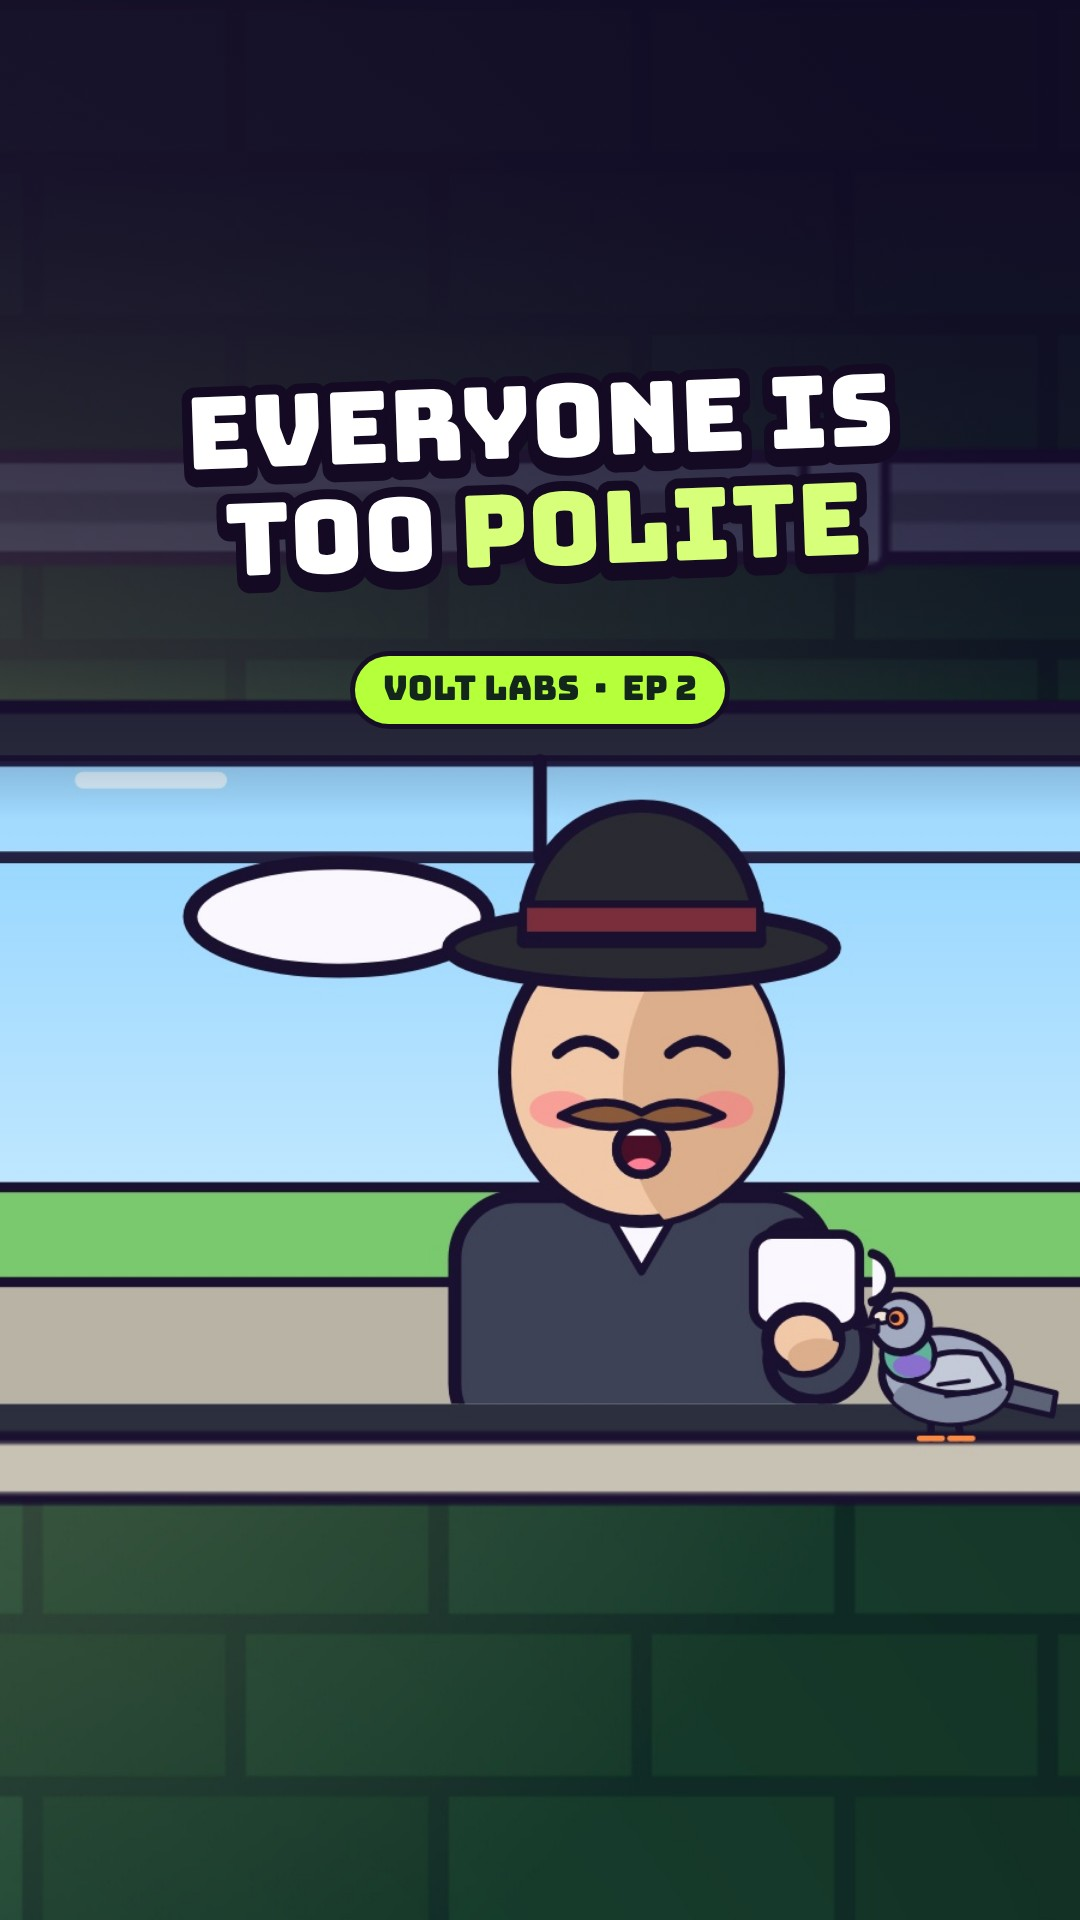
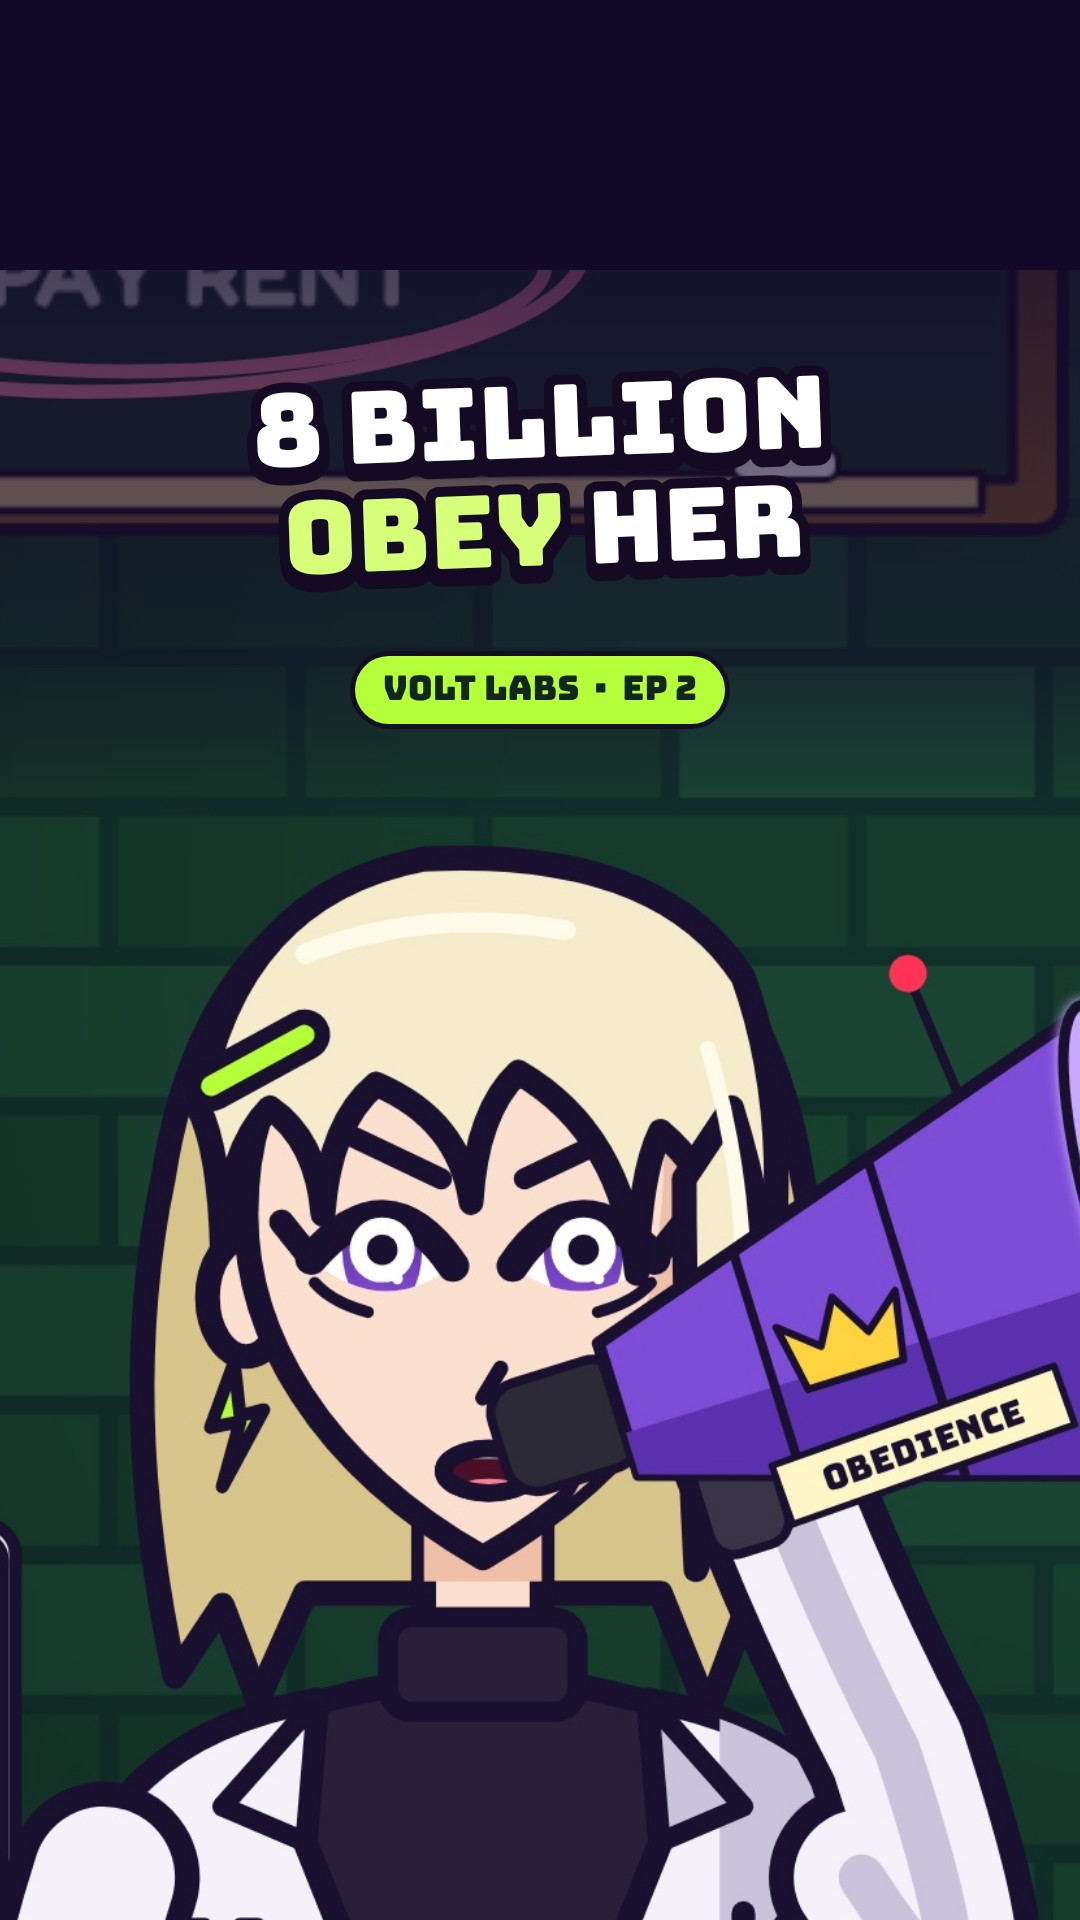
Covers: the main cast big, the strongest emotion frame, a question in 2-4 words (owner 11/10); redo VL2, VM3, VL4, VM6, VL6
Claude-Session: https://claude.ai/code/session_01LkDBK4iy6rfiAGrGtNUTyR

diff --git a/channel/PRODUCTION.md b/channel/PRODUCTION.md
@@ -112,6 +112,7 @@ Read the style text only (`curl -sS https://raw.githubusercontent.com/lemomo-ai/
    - youtubeData: title ≤ 100 chars ending `| Void Mart Ep N #shorts` (or `| Volt Labs Ep N #shorts`), type `short`, privacy `public`, tags, category `FILM_ANIMATION`, madeForKids false, isAiGeneratedContent false
    - instagramData: type `REEL`, showReelOnFeed true, isAiGenerated true
    - tiktokData (owner, 11/8; Metricool refuses a TikTok post without a title): `title` = the post text (horror: the description without `#shorts`), privacyOption `PUBLIC_TO_EVERYONE`, disableComment/Duet/Stitch false, commercialContent both false, autoAddMusic false, isAigc true (AI voices, the same call as Instagram). Owner, 11/9, after reading the three platforms' rules: keep the labels as they are (Instagram and TikTok on because the voices sound real; YouTube off because fictional animation is exempt)
+5. **Cover rule (owner, 11/10): the main cast is the subject, and it must make people want to click.** Toons: Void Mart covers show Pip, Rae or MAGS, Volt Labs covers show Vera or Cleo, big (the face at least a third of the cover width, `zoom` 1.2–1.4), on the frame with the strongest emotion (crying, shouting, scheming, shock) and with the episode's gag object in view when it fits. One-off or side characters (customers, the landlord, inspectors, Dennis) are never the subject; they may appear small behind. Text: 2–4 words that open a question ("GOODBYE, KEVIN", "SHE SPENT THE RENT ON THIS"), not a summary.
 5. **Cover (thumbnail), every episode, both channels:** add the episode to `channel/thumbs/specs.json` (frame time `t` at the punchline or the clearest look at the anomaly, 2–5 words in `lines`, `hl` = the word to colour; toons: `focus` = the face, `zoom`, `place`; tapes: `focus`, `zoom` on the anomaly) and run `node channel/tools/thumbs.cjs <folder>`. Look at it: text and faces inside the middle 3:4 band (y 240–1680, what the Instagram grid shows), and nothing important in the grid's top-right corner (reel icon) or bottom-left corner (view count); under 2 MB, English only. The compositor's layout already keeps those corners clear; keep `lines` short (2–4 words a line). Commit it with the episode and pass `videoThumbnailUrl: https://raw.githubusercontent.com/lalapert/animation/<sha>/channel/thumbs/<folder>.jpg` in `createScheduledPost` (one image serves the YouTube Short and the Instagram Reel).
 6. (The 2-weekly `/ig-audit` from 12/7 is folded into the weekly report, step 10.)
 7. Append to `channel/LOG.md` (Void Mart / Volt Labs tables): date, folder, series, length, LUFS, checks, Metricool post id, ElevenLabs credits used and left, anything that went wrong. Commit and push.

diff --git a/channel/LOG.md b/channel/LOG.md
@@ -99,3 +99,8 @@
 - Done now: pre-upload checks for every post through Thursday morning: 11/10 VL2 and tape 2, 11/11 VM3, 11/12 VL3 (all PASS, contact sheets looked at). No horror post on 11/11–11/12.
 - The scheduled runs before 11/12 11:00 KST answer one line and stop (trigger prompt updated); the 11/12 15:41 run resumes the full flow (analytics, the check of 11/13's posts, production).
 - Bank when paused: Void Mart 5 (VM3–7), Volt Labs 5 (VL2–6), horror 4 (tapes 2–5); posts covered through 11/19.
+
+## 11/10 KST: covers show the main cast (owner: "썸네일에는 주인공 라인이 주로", "클릭하고 싶게")
+
+- Rule in PRODUCTION.md §3.5. Redone: VL2 (published 11/10 with the bowler-hat customer; new file for the owner to swap by hand), VM3 (Pip crying, GOODBYE, KEVIN), VL4 (Vera and the gauntlet, SHE SPENT THE RENT ON THIS), VM6 (Pip, SHE LOST TO A CAMERA), VL6 (Vera, Sourdough frame). Covers of VM4, VM5, VL3, VL5, VM7 already show the main cast and stay.
+
